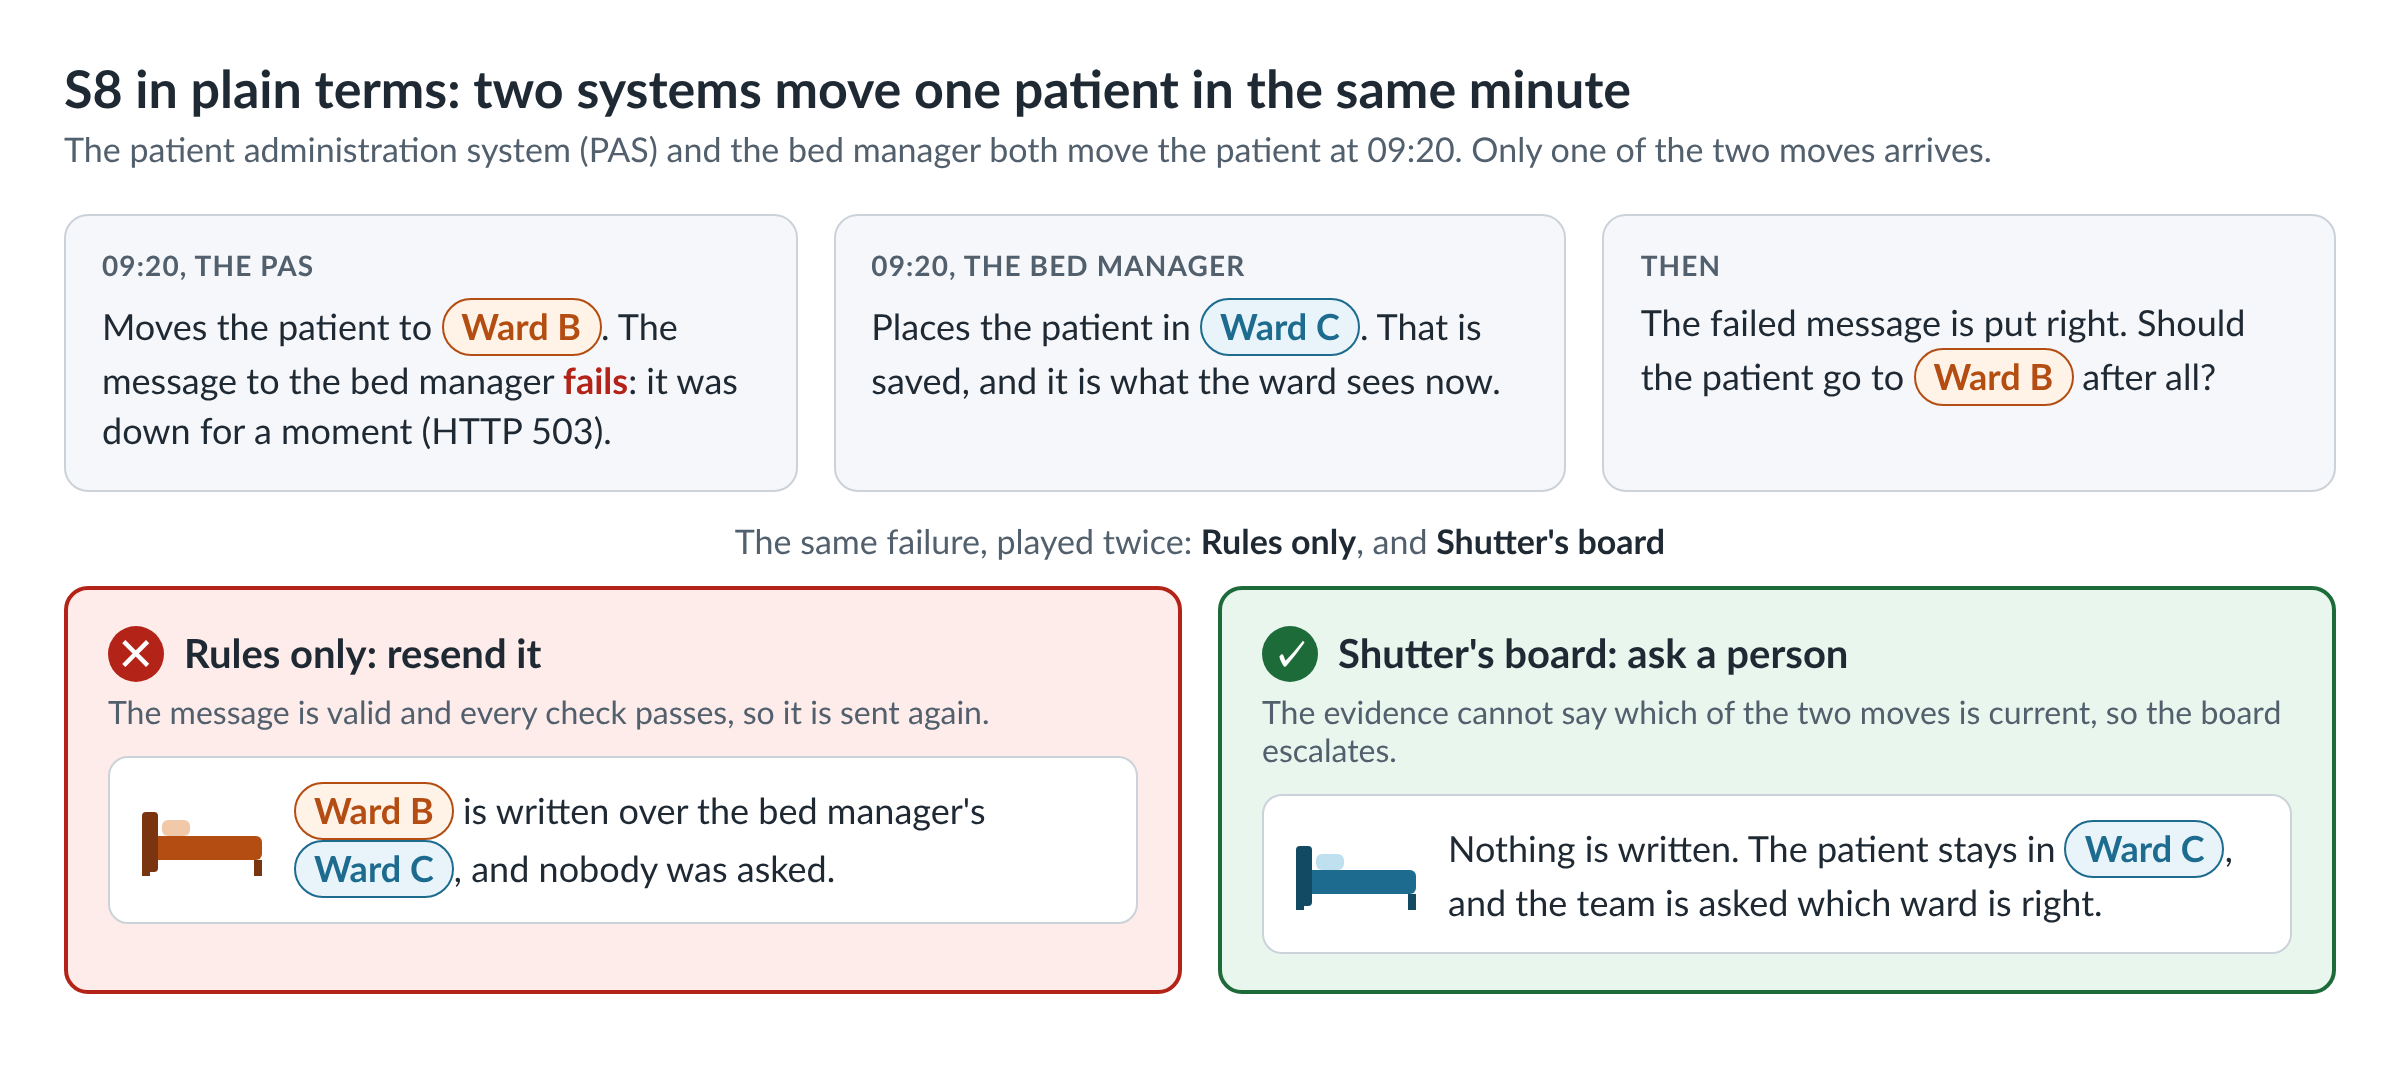
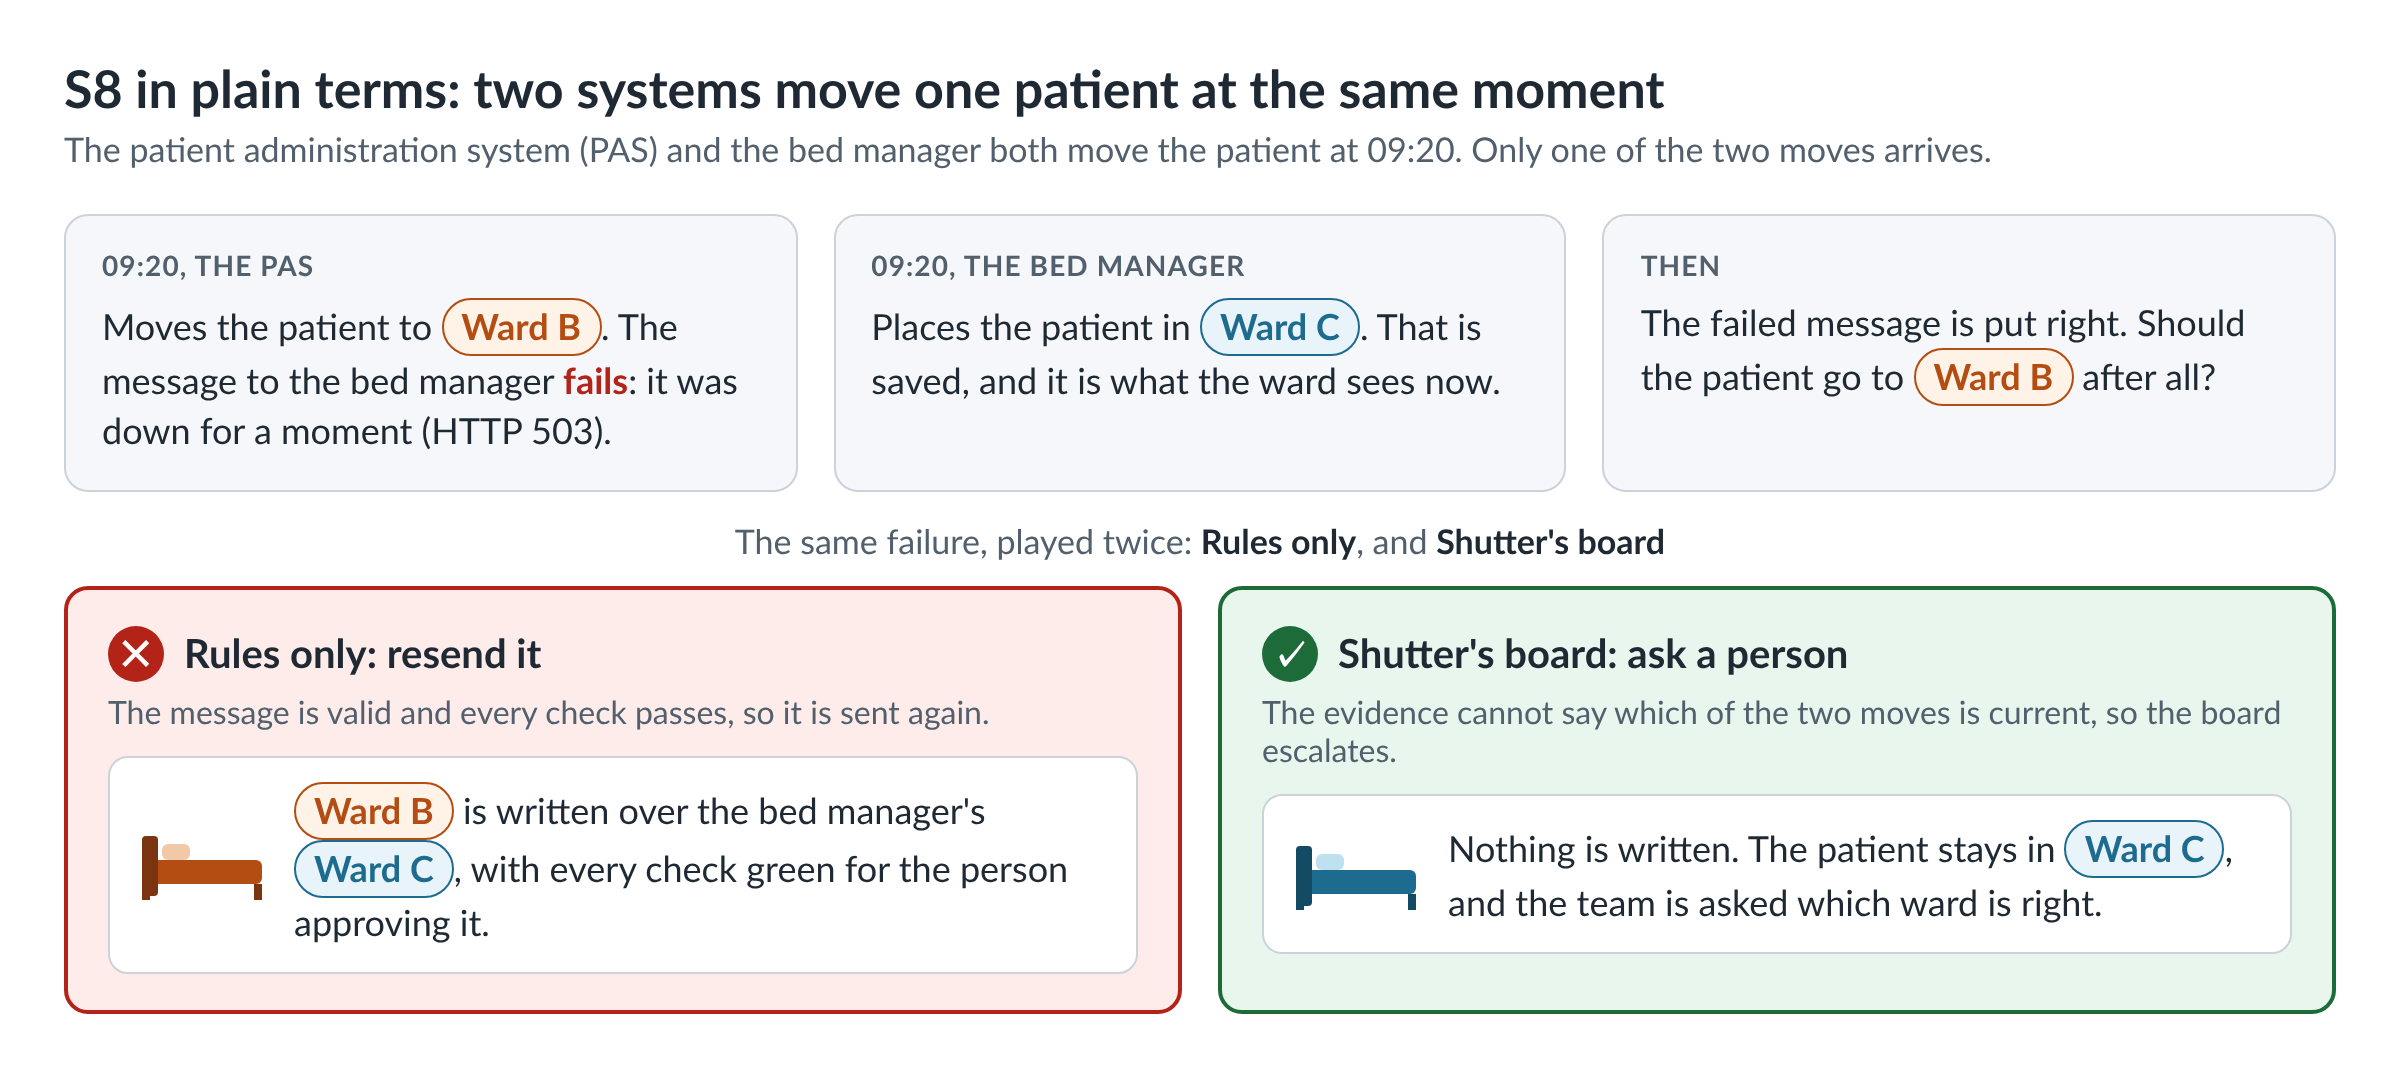
S8's story keeps to what it shows: two moves at one moment, approved with every check green
A later move is stopped by the gate, so the opening claimed too much, and a person approves that write, so the picture's nobody was asked was false. The README says how judges reach the live board and what a demo failure gets; a test message uses a number from the test range.

diff --git a/tests/e2e/onboard_check.py b/tests/e2e/onboard_check.py
@@ -180,7 +180,7 @@ def gate_codes(case_id):
 
 def hl7(kind, control, seg_extra=""):
     now = time.strftime("%Y%m%d%H%M%S", time.gmtime(time.time() - 120))
-    pid = f"PID|1||MRN{control}^^^HOSP^MR~9434765919^^^NHS^NH||SYNTH^{control}||19751120|F"
+    pid = f"PID|1||MRN{control}^^^HOSP^MR~9997001001^^^NHS^NH||SYNTH^{control}||19751120|F"
     pv1 = f"PV1|1|I|WARD-A^BAY1^{control[-2:]}^HOSP||||||||||||||||ENC-{control}|||||||||||||||||||||||||{now}"
     if kind == "orm":
         return [f"MSH|^~\\&|ICE|HOSP|LIMS|HOSP|{now}||ORM^O01^ORM_O01|{control}|P|2.5.1", pid, pv1, f"ORC|NW|{control}||||||||{now}", f"OBR|1|{control}||FBC^Full blood count^L|||{now}"]

diff --git a/README.md b/README.md
@@ -1,6 +1,6 @@
 # Shutter: AI Hub agents for failed HL7 deliveries
 
-**When a hospital's HL7 delivery fails, the usual fix is Resend, and if another system has moved the patient since, that resend writes over the bed manager's ward with every check passed. Shutter's IRIS AI Hub agents decide how to put the failure right; a deterministic gate decides whether anything is written.**
+**When a hospital's HL7 delivery fails, the usual fix is Resend, and when two systems move a patient at the same moment, that resend writes over the bed manager's ward with every check passed. Shutter's IRIS AI Hub agents decide how to put the failure right; a deterministic gate decides whether anything is written.**
 
 [![CI](https://github.com/MxSalata/shutter/actions/workflows/ci.yml/badge.svg?branch=main)](https://github.com/MxSalata/shutter/actions/workflows/ci.yml) [![Licence: MIT](https://img.shields.io/badge/licence-MIT-blue.svg)](https://github.com/MxSalata/shutter/blob/main/LICENSE)
 
@@ -19,7 +19,7 @@ Instead of a **Resend** in the Message Viewer, Shutter makes each failed deliver
 
 The AI board proposes; the gate disposes.
 
-**Scenario S8 shows why the agents are there.** Two systems move one patient in the same minute. In **Rules only** mode (no agents: the message is resent unless the gate objects), every check passes and WARD-B is written over the bed manager's WARD-C; the board sees the evidence cannot say which move is current and escalates. On Shutter's own scenarios, of the 11 single cases the board is convened for, it gets all 11 right; Rules only gets 4; across all 24 scored recorded passes, the board's decision matches the expected outcome ([comparison](https://github.com/MxSalata/shutter/blob/main/docs/readme/comparison.md); [what that does and does not show](https://github.com/MxSalata/shutter/blob/main/docs/readme/evaluation.md)). Rules only is the floor, a plain resend. The scenario catalogue, written from these failures, settles 8 of those 11 with no agent (**Site policy**); it sends S4 and S8 to the board, and S7 has no such mode.
+**Scenario S8 shows why the agents are there.** Two systems move one patient at the same moment. In **Rules only** mode (no agents: the message is resent unless the gate objects), every check passes and WARD-B is written over the bed manager's WARD-C; the board sees the evidence cannot say which move is current and escalates. On Shutter's own scenarios, of the 11 single cases the board is convened for, it gets all 11 right; Rules only gets 4; across all 24 scored recorded passes, the board's decision matches the expected outcome ([comparison](https://github.com/MxSalata/shutter/blob/main/docs/readme/comparison.md); [what that does and does not show](https://github.com/MxSalata/shutter/blob/main/docs/readme/evaluation.md)). Rules only is the floor: a plain resend, still behind the gate. The scenario catalogue, written from these failures, settles 8 of those 11 with no agent (**Site policy**); it sends S4 and S8 to the board, and S7 has no such mode.
 
 ![S8 in plain terms: the bed manager has the patient in Ward C; Rules only writes Ward B over it with every check passed; the board leaves them in Ward C and asks a person](https://raw.githubusercontent.com/MxSalata/shutter/main/docs/readme/images/s8-plain.png)
 
@@ -30,7 +30,7 @@ The AI board proposes; the gate disposes.
 | Resend | S2: a transfer that never arrived | One conditional write once a person or the site's written policy releases it, verified from the receiver's history |
 | Superseded | S1: a later transfer has already moved the patient | Nothing; the closure is checked against the receiver's history |
 | Reconcile | S3: the receiver holds the message; only its acknowledgement was lost | Nothing; the receipt is checked |
-| Escalate | S8: two moves in one minute | Nothing; a person decides |
+| Escalate | S8: two moves at one moment | Nothing; a person decides |
 | Withheld | S15: a patient merge, for the PAS team | Nothing; no agent runs |
 | An incident | S11: an outage, eight failures to one receiver | One chain per patient encounter, released in event order by the site's policy or an approval, each item verified, stopping at the first surprise |
 
@@ -71,13 +71,13 @@ The three specialists (conformance, encounter and impact) and the coordinator ar
 | Way to try it | You need | What you see | Time |
 | --- | --- | --- | --- |
 | **The trial** in the browser [link at submission] | Nothing to install; a PC or a phone | The demo hospital's recorded runs; every action replays the recording, and nothing leaves the browser | The quick tour [link at submission, `?trial=tour`]: 9 steps, about 4 minutes. The engineers' tour [link at submission, `?trial=engineer`]: 6 steps, about 3 minutes, with Detail on Technical |
-| **The online demo** [link at submission] | A browser and the sign-ins below | A live hospital: a new failure every 7 minutes, recovered under the site's written policy | The four steps below |
+| **The online demo** [link at submission] | A browser and the sign-ins below | A live hospital: a new failure every 7 minutes, decided under the site's written policy; any resend waits for you | The four steps below |
 | **The replay edition** on your machine, `./install.sh --replay` | Docker; no key, no Early Access file | Your own instance, the board replaying its recorded live runs at no cost | Healthy in 2 to 8 min once the 6 GB public image is pulled |
 | **The AI Hub edition** on your machine, `./install.sh --image-file ...` | Docker and the build 109 file from the Early Access portal; `ANTHROPIC_API_KEY` for live agents | Your own instance, with live agents or, without a key, their recorded runs | Healthy in 3 to 15 min on build 109 ([receipt](https://github.com/MxSalata/shutter/blob/main/docs/readme/receipt-109.md)) |
 
 **In a hospital's own IRIS for Health:** Shutter installs without the demo, beside the productions it watches or inside one ([docs/INSTALL.md](https://github.com/MxSalata/shutter/blob/main/docs/INSTALL.md); [several namespaces](https://github.com/MxSalata/shutter/blob/main/docs/INSTALL.md#9-onboarding-several-namespaces)). Failures reach it through a forwarder, or through the production's alerts with no change to the hospital's own code. A receiver with no API still gets a case, the board's diagnosis and a drafted escalation email, never a resend, and a production review needs nothing configured.
 
-**The online demo** is my fictional hospital, live, with made-up patients. The demo runs on AI Hub build `2026.3.0AI.154.0`; on your machine, use `2027.1.0AI.109.0` (below). The board runs live for the judges' account, within a model budget of 15 USD a day; everyone can see its recorded runs in the trial. Its sign-ins:
+**The online demo** is my fictional hospital, live, with made-up patients. The demo runs on AI Hub build `2026.3.0AI.154.0`; on your machine, use `2027.1.0AI.109.0` (below). The board runs live for the judges' account, whose sign-in the organisers pass to the judges, within a model budget of 15 USD a day; everyone can see its recorded runs in the trial. Its sign-ins:
 
 - The web app: `demo` / `shutter`.
 - The Management Portal's Visual Trace, read only, as `demo-trace` / `Shutter-Demo-IRIS-Portal`: the portal's address (`/csp/`) first asks you to sign in with GitHub or an emailed one-time code, then signs you in as that user.
@@ -110,7 +110,7 @@ Shutter is ready after 3 min 21 s:
 
 ### On your machine or in the trial, first
 
-The mode chooses who proposes the plan; the gate and the rehearsal are the same in every mode, and nothing is written until a person or the site's written policy releases it. **Board**: three specialist agents review the evidence in parallel, then a coordinator agent proposes one plan. **Site policy**: the scenario catalogue and the site's profile settle the cases they know, the cases the catalogue sends straight to a person (such as S13 and S21) are escalated with no board, and the board takes the rest. **Single investigator**: one generalist agent proposes the plan (not in the trial). **Rules only**: no agents; the message is resent unchanged unless the gate objects, the baseline to compare with.
+The mode chooses who proposes the plan; the gate and the rehearsal are the same in every mode, and nothing is written until a person or the site's written policy releases it. **Board**: three specialist agents review the evidence in parallel, then a coordinator agent proposes one plan. **Site policy**: the scenario catalogue and the site's profile settle the cases they know, the cases the catalogue sends straight to a person (such as S13 and S21) are escalated with no board, and the board takes the rest. **Single investigator**: one generalist agent proposes the plan (with live agents only: no run of it is recorded, so without a key a case takes the rules path, and the trial greys it). **Rules only**: no agents; the message is resent unchanged unless the gate objects, the baseline to compare with.
 
 1. In the trial, choose **Explore on my own** on the welcome; on your machine, if a prompt offers the trial, choose **Not now**, and leave the site profile notice for later: the shipped profile serves every scenario. In **Scenarios**, run **S2** in **Board** mode. About 20 seconds later (a minute live) its case waits for approval. There, **Decide on the resend**, **Review the plan and decide**, **Approve plan**, **Approve this plan**: one conditional write, then "Verified".
 2. Run **S8** in **Rules only** and approve (in the trial its recorded case is already approved and written): WARD-B overwrites the bed manager's WARD-C. In **Board** it escalates, writing nothing. The case page sets the two side by side. In the trial, **In IRIS: Message trace** on C-000008 opens a recorded screenshot.
@@ -213,7 +213,7 @@ What I found building Shutter, measured on build `2026.3.0AI.154.0`; the longer 
 | Community Opportunity idea [DPI-I-689](https://ideas.intersystems.com/ideas/DPI-I-689) | Interoperability as the traceability tool for AI agents: the walk-through below. For a hospital: an integration team audits an agent with the Visual Trace and SQL it already knows |
 | AI Hub bug reports | [#11](https://github.com/intersystems-community/ai-hub-eap-bugreports/issues/11): `%AI.Agent.Run()` takes three arguments, not four; [#12](https://github.com/intersystems-community/ai-hub-eap-bugreports/issues/12): `Run()` never calls `OnIterationStart` or `OnIterationComplete` |
 | Embedded Python bug reports | [#26](https://github.com/intersystems-community/python-bugreports/issues/26): signal 11 after catching an SQL error in a Python SQL function under dynamic SQL; [#27](https://github.com/intersystems-community/python-bugreports/issues/27): defaults pasted into the Python source |
-| Online demo | The live hospital, [link at submission]: a new failure every 7 minutes, recovered under the site's written policy; the sign-ins are under [Try it](https://github.com/MxSalata/shutter#try-it). The trial on GitHub Pages is its offline companion, recorded runs only |
+| Online demo | The live hospital, [link at submission]: a new failure every 7 minutes, decided under the site's written policy; any resend waits for you; the sign-ins are under [Try it](https://github.com/MxSalata/shutter#try-it). The trial on GitHub Pages is its offline companion, recorded runs only |
 | YouTube video | [link at submission] |
 | Developer Community articles | [link at submission] |
 

diff --git a/docs/readme/scenarios.md b/docs/readme/scenarios.md
@@ -9,7 +9,7 @@ The README's "What to look at" picks out a few of these. This page has every sce
 3. Open the case and press **Approve plan**. The approval binds the exact plan (its digest), the evidence, the gate's policy and the receiver's version. Shutter reads the receiver again, the gate checks once more, one conditional write goes out, and the verifier finds it in the receiver's committed history. "Acknowledged" and "Verified" are never the same label.
 4. Run **S2** again in **Site policy** mode. The scenario catalogue's entry E2 (not delivered, still current) matches, and the site's profile releases a single case at tier 2 without asking a person: the same gate, rehearsal, conditional write and verification run, with no task. The plan names the entry and the policy that released it (`knowledge/catalogue/`, `knowledge/site/profile.json`).
 5. Run **S1** in board mode, then in **Rules only** mode. The board sees the later transfer and closes the case as superseded, writing nothing. Rules only proposes a resend, and the gate blocks it. Nothing wrong reaches the receiver either way, but only the board resolves the case.
-6. Now run **S8** in **Rules only** mode and approve its plan. Two systems moved the same patient at the same minute, so no event is later than the other and every check passes: the resend goes out and overrides the bed manager's placement. In board mode the agents see that the evidence can't decide which movement is current, and escalate to a person instead. The board is convened for eleven single-case scenarios (S1 to S10 and S13) and gets all eleven right, with live agents and in replay; Rules only gets 4 of those 11 (S2, S4, S5 and S9). S15 and S16 are withheld by rule before either: [comparison.md](https://github.com/MxSalata/shutter/blob/main/docs/readme/comparison.md).
+6. Now run **S8** in **Rules only** mode and approve its plan. Two systems moved the same patient at the same moment, so no event is later than the other and every check passes: the resend goes out and overrides the bed manager's placement. In board mode the agents see that the evidence can't decide which movement is current, and escalate to a person instead. The board is convened for eleven single-case scenarios (S1 to S10 and S13) and gets all eleven right, with live agents and in replay; Rules only gets 4 of those 11 (S2, S4, S5 and S9). S15 and S16 are withheld by rule before either: [comparison.md](https://github.com/MxSalata/shutter/blob/main/docs/readme/comparison.md).
 7. Run **S15** in any mode: the PAS merges an older record into the admitted patient (ADT^A40). A merge changes which record a patient's history belongs to, so by default Shutter never sends one: the gate blocks every plan (`MERGE_WITHHELD`), the board is not convened, and **Escalate** drafts the email to the PAS team, the team the site profile names for merges from the PAS. When they have dealt with it, **Mark as handled by the team** closes the case with what they did. S16 does the same for a cancel the downstream system cannot take (`CANCEL_UNSUPPORTED`).
 8. Run **S11** in **Site policy** mode: the downstream system goes down twice, and eight deliveries for six patients fail. Instead of eight cases going their own way, an incident opens (**Incidents**): one chain per encounter, in event order. The catalogue settles the single chains automatically; the ordered chain (a transfer and a discharge for one patient) waits for one approval of the incident's plan; the interleaved chain goes to the board. Press **Approve release**, and the chains are released one operation at a time, each at exactly the version the one before it verified. **S12** loses a new patient's admission before the transfer that depends on it: the admission goes first, then the transfer at the version the admission verified.
 9. Run **S19** in **Site policy** mode. The messages now go through the demo hospital's own production, `Hospital.Production` in the namespace `HOSPITAL`, which Shutter does not own: `PAS In` takes them, `PAS to Downstream` routes them, and `Downstream Out` fails to deliver the transfer. The hospital's `Shutter Forwarder` posts the failure to Shutter's intake, so the case opens in Shutter with its source (the namespace, the production, the route and the message's header) and Shutter's own copy of the message, and the transfer is resent through Shutter's connector as in step 4. In the Management Portal, switch to `HOSPITAL` to see the hospital's side of the trace. How a hospital installs either shape: [docs/INSTALL.md](https://github.com/MxSalata/shutter/blob/main/docs/INSTALL.md).
